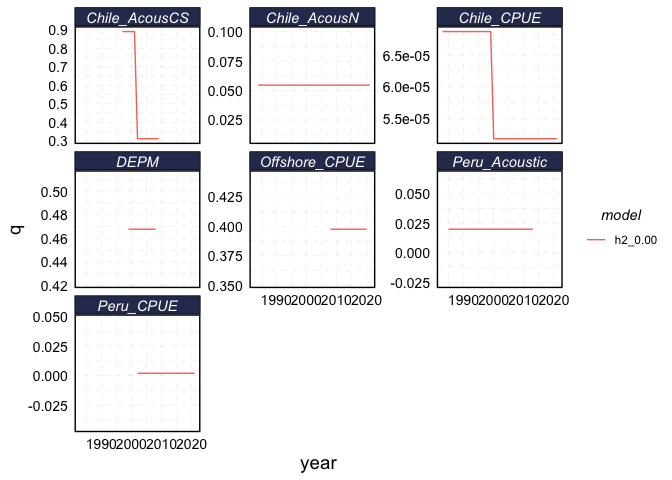
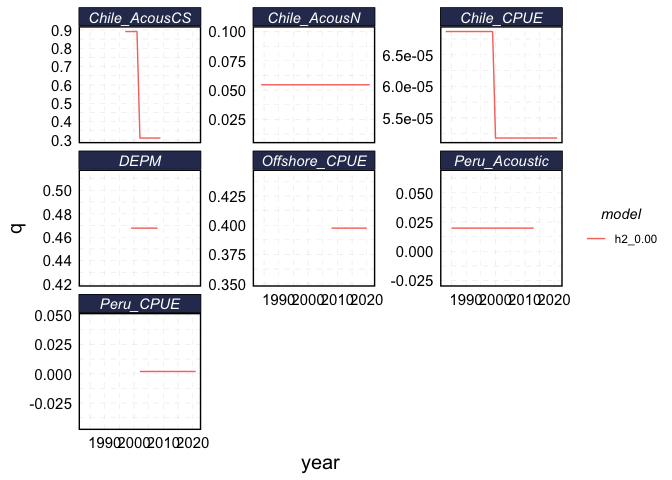
updating figures

diff --git a/README.md b/README.md
@@ -37,7 +37,7 @@ library(tidyverse)
 #> ✖ dplyr::filter() masks stats::filter()
 #> ✖ dplyr::lag()    masks stats::lag()
 library(jjmR)
-theme_set(theme_jjm())
+theme_set(theme_jjm(base_size = 15))
 setwd(here("assessment"))
 
 # read in a model run
